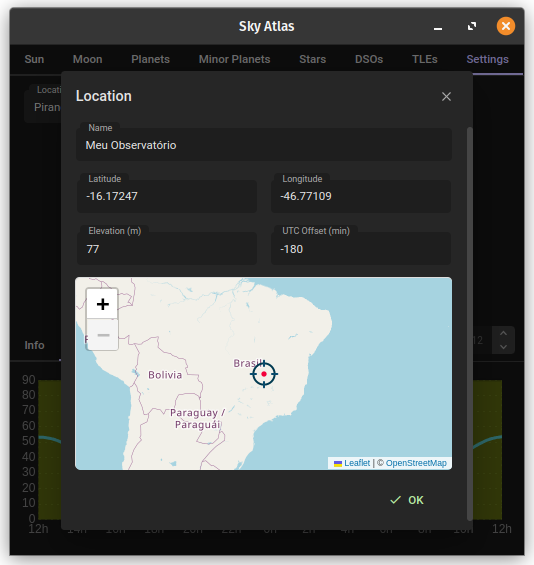
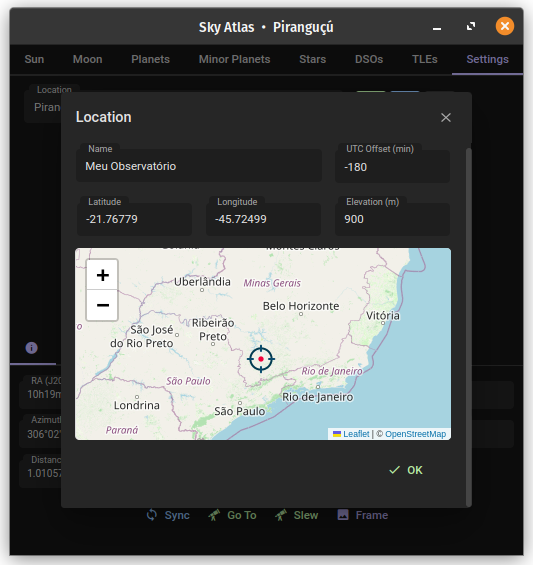
[desktop]: Improve Location Dialog layout

diff --git a/desktop/src/shared/dialogs/location/location.dialog.html b/desktop/src/shared/dialogs/location/location.dialog.html
@@ -1,36 +1,36 @@
 <div class="grid">
-    <div class="col-12 pt-3">
+    <div class="col-8 pt-3">
         <span class="p-float-label">
             <input pInputText class="border-0 w-full" [(ngModel)]="location.name" />
             <label>Name</label>
         </span>
     </div>
-    <div class="col-6 pt-3">
+    <div class="col-4 pt-3">
+        <span class="p-float-label">
+            <p-inputNumber locale="en" type="number" styleClass="border-0 w-full" [min]="-720" [max]="720"
+                           [(ngModel)]="location.offsetInMinutes" [allowEmpty]="false" />
+            <label>UTC Offset (min)</label>
+        </span>
+    </div>
+    <div class="col-4 pt-3">
         <span class="p-float-label">
             <p-inputNumber locale="en" styleClass="border-0 w-full" [min]="-90" [max]="90" [maxFractionDigits]="5"
                            [(ngModel)]="location.latitude" [allowEmpty]="false" />
             <label>Latitude</label>
         </span>
     </div>
-    <div class="col-6 pt-3">
+    <div class="col-4 pt-3">
         <span class="p-float-label">
             <p-inputNumber locale="en" styleClass="border-0 w-full" [min]="-180" [max]="180" [maxFractionDigits]="5"
                            [(ngModel)]="location.longitude" [allowEmpty]="false" />
             <label>Longitude</label>
         </span>
     </div>
-    <div class="col-6 pt-3">
+    <div class="col-4 pt-3">
         <span class="p-float-label">
             <p-inputNumber locale="en" type="number" styleClass="border-0 w-full" [min]="-1000" [max]="10000"
                            [(ngModel)]="location.elevation" [allowEmpty]="false" />
             <label>Elevation (m)</label>
-        </span>
-    </div>
-    <div class="col-6 pt-3">
-        <span class="p-float-label">
-            <p-inputNumber locale="en" type="number" styleClass="border-0 w-full" [min]="-720" [max]="720"
-                           [(ngModel)]="location.offsetInMinutes" [allowEmpty]="false" />
-            <label>UTC Offset (min)</label>
         </span>
     </div>
     <div class=col-12>
